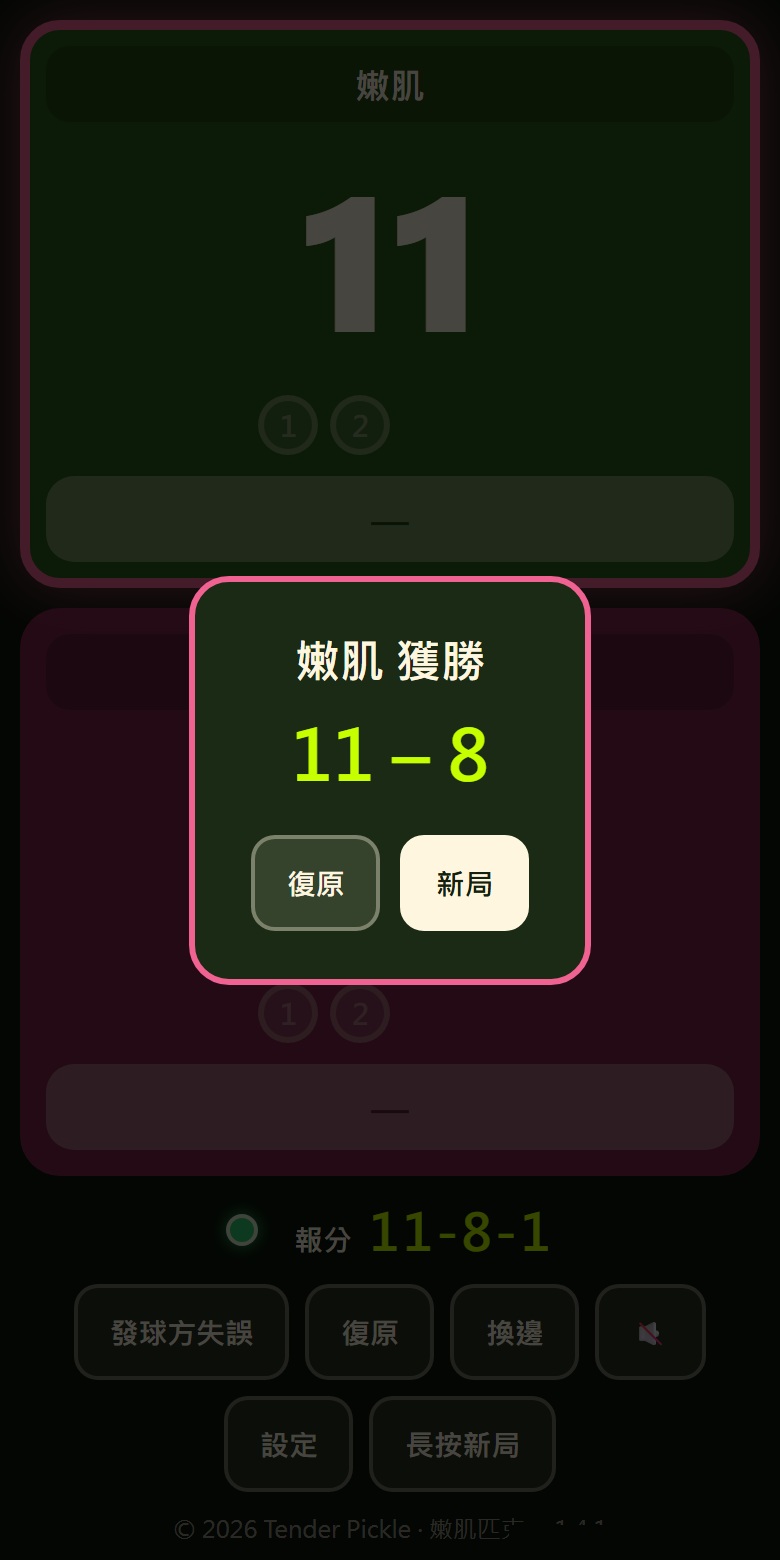
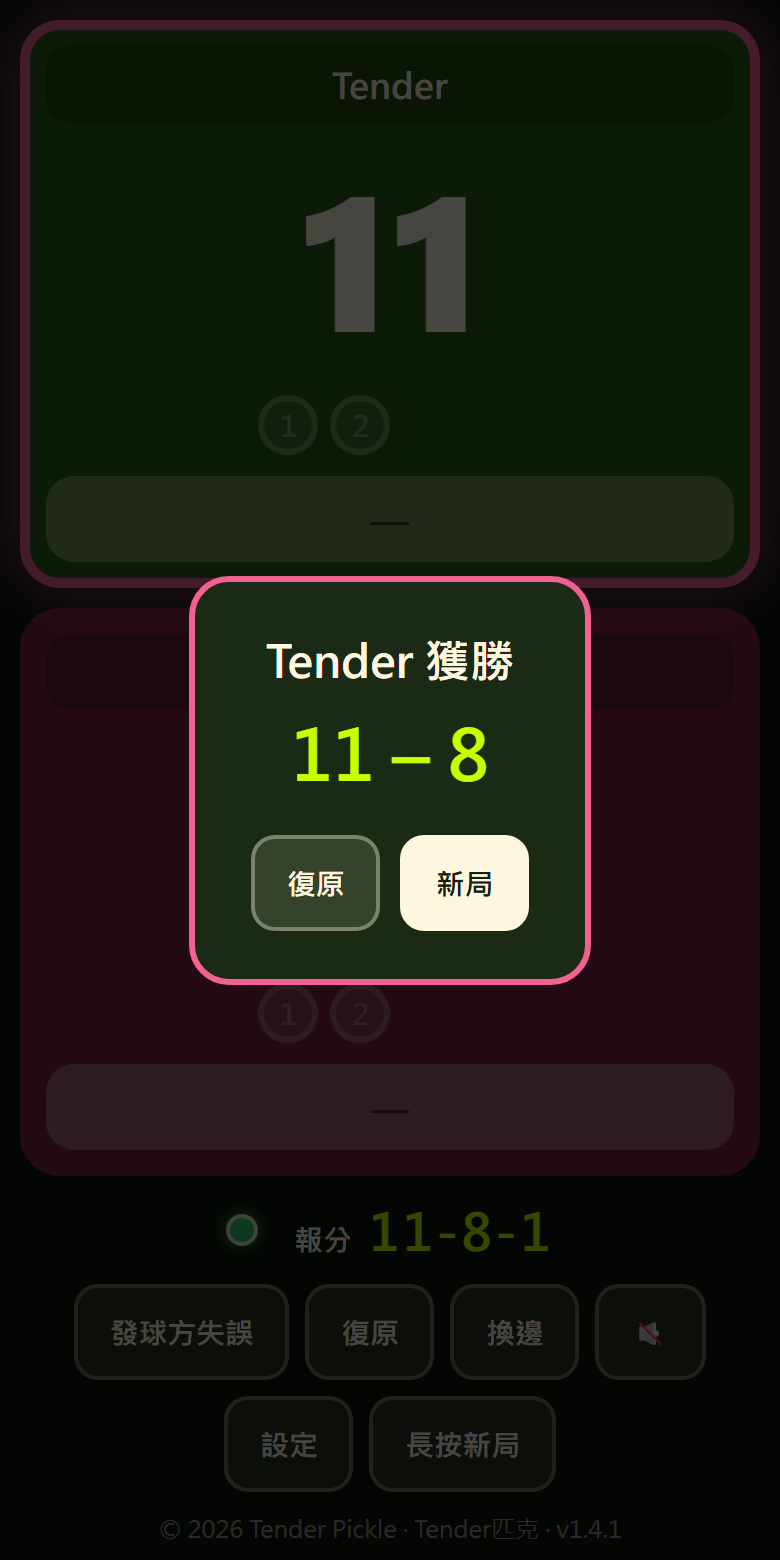
Guide: use English Tender Pickle branding and team names

diff --git a/guide/index.html b/guide/index.html
@@ -3,7 +3,7 @@
 <head>
 <meta charset="utf-8">
 <meta name="viewport" content="width=device-width, initial-scale=1">
-<title>嫩肌匹克計分板 使用說明</title>
+<title>Tender Pickle 計分板 使用說明</title>
 <style>
 :root{--bg:#0e170b;--card:#16231110;--panel:#162311;--line:#2f4524;--fg:#f1f5e4;--mute:#a9b99a;--lime:#c8ff00;--pink:#ff3d7f}
 *{box-sizing:border-box}
@@ -48,8 +48,8 @@ footer{text-align:center;color:var(--mute);font-size:14px;margin-top:48px}
 <div class="wrap">
 
 <header>
-  <img src="img/icon.png" alt="嫩肌匹克計分板圖示">
-  <h1>嫩肌匹克計分板 使用說明</h1>
+  <img src="img/icon.png" alt="Tender Pickle 計分板圖示">
+  <h1>Tender Pickle 計分板 使用說明</h1>
   <p class="sub">Tender Pickle Scoreboard · v1.4.1 · 無廣告、免註冊、可離線的匹克球計分板</p>
   <a class="cta" href="https://hsiao0922.github.io/tender-pickle-scoreboard/">開啟計分板</a>
   <nav>
@@ -154,7 +154,7 @@ footer{text-align:center;color:var(--mute);font-size:14px;margin-top:48px}
 <div class="two">
   <figure>
     <img src="img/annotated.png" alt="計分板畫面標註圖">
-    <figcaption>手機直向畫面（範例：嫩肌 4 : 2 辣椒，嫩肌第 1 發）</figcaption>
+    <figcaption>手機直向畫面（範例：Tender 4 : 2 Spicy，Tender 第 1 發）</figcaption>
   </figure>
   <div>
     <p><span class="num">1</span><strong>隊名</strong>：點一下可輸入，留空則顯示「左邊隊伍／右邊隊伍」。</p>
@@ -254,7 +254,7 @@ footer{text-align:center;color:var(--mute);font-size:14px;margin-top:48px}
 <details><summary>語音沒有聲音？</summary><p>檢查手機是否靜音、音量與計分板內的音量；先點一下畫面；再按設定中的「試聽」測試。</p></details>
 <details><summary>怎麼移除？</summary><p>像一般 App 一樣長按圖示 → 移除（iPhone）或解除安裝（Android）。</p></details>
 
-<footer>© 2026 Tender Pickle · 嫩肌匹克 · MIT License</footer>
+<footer>© 2026 Tender Pickle · MIT License</footer>
 </div>
 </body>
 </html>
